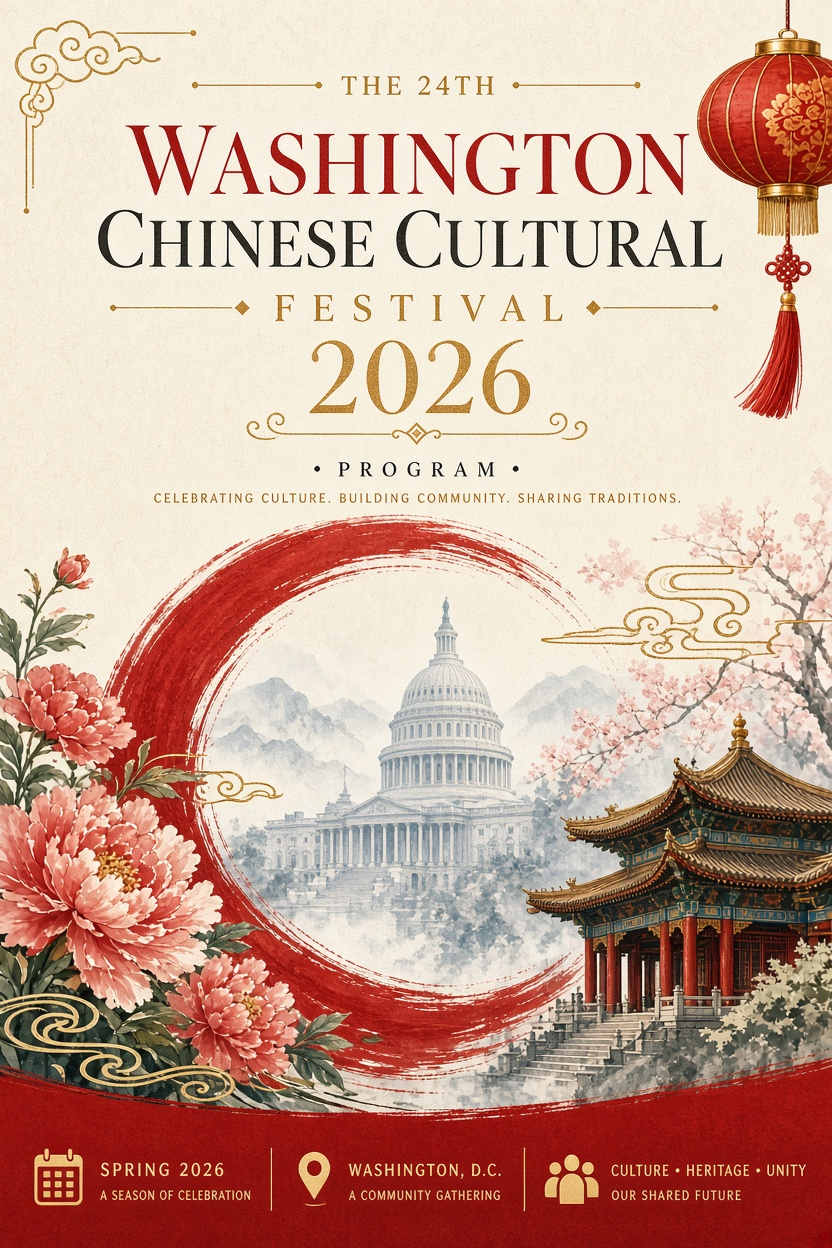
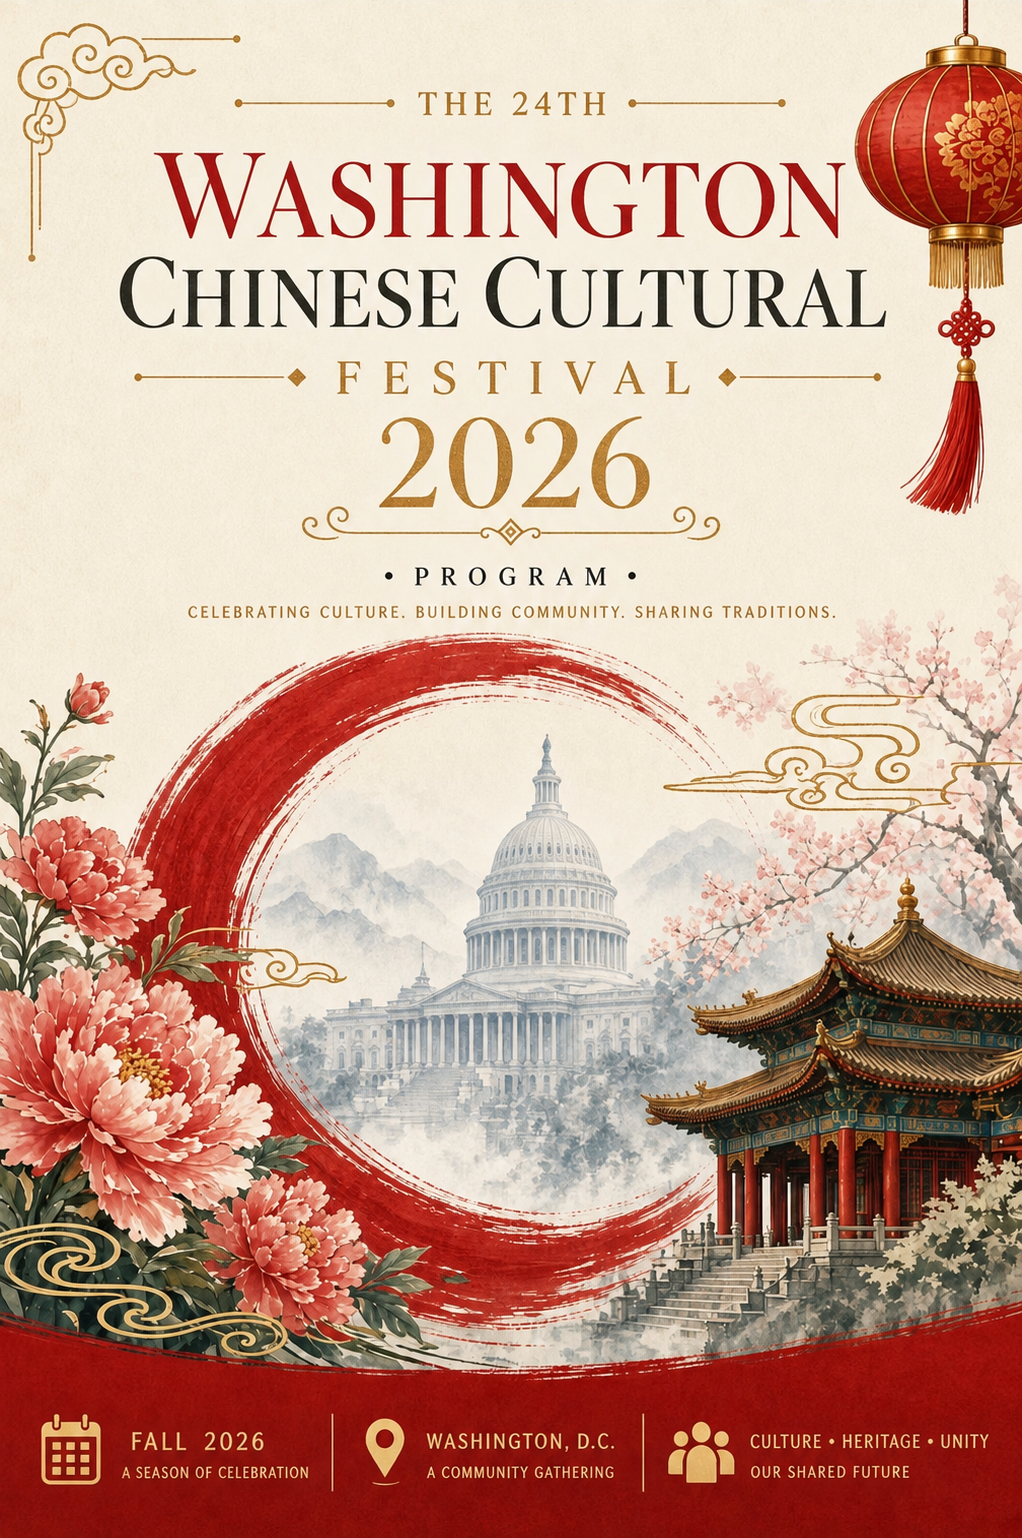
Add 可滑动的dots 和 Page1.png的改动 (#12)穆建西
* Update index.html

更新第二舞台节目单

* Add files via upload

Upload 第二舞台节目单 .jpg files: Page4.jpg and Page5.jpg

* Update index.html

Add 可滑动的dots for 帐篷名称 和 交通指南

* Add files via upload

Update the Page1.png file by changing “SPRING 2026” to “FALL 2026” on the left-side button.

diff --git a/ProgramList/index.html b/ProgramList/index.html
@@ -169,6 +169,14 @@ html, body {
     <div class="slide" id="Slide8">
         <img src="Page5.jpg" alt="第二舞台节目单之二">
     </div>
+
+    <div class="slide" id="Slide9">
+        <iframe src="2026 Washington Chinese Cultural Festival Schematic Layout of Tent and Camera Position2.pdf" title="帐篷名称"></iframe>
+    </div>
+
+    <div class="slide" id="Slide10">
+        <iframe src="2026中国文化节交通指南.pdf" title="交通指南"></iframe>
+    </div>      
 </div>
 
 <div class="dots">
@@ -180,6 +188,8 @@ html, body {
     <div class="dot"></div>
     <div class="dot"></div>
     <div class="dot"></div>
+    <div class="dot"></div>
+    <div class="dot"></div>      
 </div>
 
 <script>
